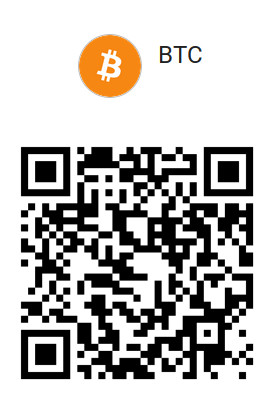
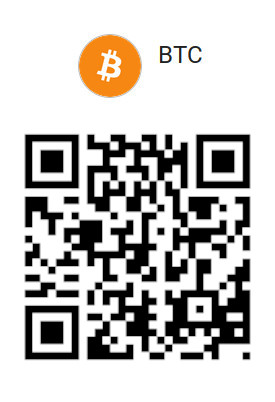
newsflash and updates

diff --git a/_site/bio/index.html b/_site/bio/index.html
@@ -79,12 +79,12 @@
 <a><strong>Co-creating a beautiful future! </strong></a>
 <br />
 <br />
-<a>"Everything I create is devoted to inspiring humanities culture, arts and technology to  move in sync with nature toward an abundant and healthy future for all species and eco-systems. The future is always growing one way or another... Be intelligent, put the natural world first, create a harmonious society and technologies. May all else rest in peace."</a>
+<a>"Everything I create is devoted to inspiring humanities culture, arts and technology to move in sync with nature toward an abundant and healthy future for all species and eco-systems. My current focus is to raise awareness about the importance of Bio-Diversity and how it is essential for humans and all life on earth to continue. The future is always growing one way or another... Be intelligent, put the natural world first, create a harmonious and freedom loving society and technologies. May all else rest in peace."</a>
 <br />
 <br />
 <a><strong>About the music:</strong></a>
 <br />
-<a>From a very early age DaoWiz started singing and writing poetry as well as exploring various visual art mediums. As his expression grew towards the late 90's he branched out into exploring technology with the rise of the internet, digital forms of sound creation and many other avenues related to these new technologies. After some experimentation in bands and collaborations, he then returned to a purely acoustic sound and began performing solo in 2011. Almost ten years later he is still producing this solo act with mostly original songs and has slowly begun integrating some more technology into his style, bringing the analogue world of nature together with humanities digital age to create a message of imagining for a world that could be..
+<a>From a very early age Daowiz started singing and writing poetry as well as exploring various visual art mediums. As his expression grew towards the late 90's he branched out into exploring technology with the rise of the internet, digital forms of sound creation and many other avenues related to these new technologies. After some experimentation in bands and collaborations, he then returned to a purely acoustic sound and began performing solo in 2011. Almost ten years later he is still producing this solo act with mostly original songs and has slowly begun integrating some more technology into his style, bringing the analogue world of nature together with humanities digital age to create a message of imagining for a world that could be..
 <br />
 <br />
 "As the world sheds it’s seasonal skins, I find beauty and meaning in the relics left by man and nature’s progression across the earth. Piecing them together I weave stories and meanings that tend toward restorative narratives using poetic symbolism. My experience includes traditional Art forms in a variety of mediums, Music forms, instruments and many technologies such as mechanics, electronics and computing."</a>

diff --git a/_site/index.html b/_site/index.html
@@ -58,20 +58,27 @@
 <body>
   <div class="my_header">
     <p>
-      <img src="/assets/img/daowiz_white.png" alt="DaoWiz" width="300px" height="140px" />
+      <img src="/assets/img/graphics/badge_white.png" alt="DaoWiz" width="300px" height="300px" />
     </p>
   </div>
+
   <br />
-  <div class="sub_header">
+    <div class="sub_header">
       <p>.</p>
      <!--<p>(formerly online ivan)</p>-->
-      <p style="margin-top:-5vw;">original digital nomad artist</p>
-      <p style="margin-top:-5vw; margin-bottom:0vw;">. crafting waves since 94 .</p>
-
-  </div>
+      <p style="margin-top:-5vw;">diversify life</p>
+    </div>
   <br />
   <br />
 
+<div class="alert_box">
+  <strong style="color: #eb4034;">NEWSFLASH!!</strong><br /><hr />
+  Exciting news! In June 2022 i'll be releasing a mobile and desktop app with a whole lot of new music and imagery. A full multimedia experience that will continually grow every month!!
+  <br />
+  Please support the project by making a contribution <a href="/anons" style="text-decoration:underline;">here</a>
+</div>
+<br />
+<br />
 
 
   <div id="wrapper">
@@ -83,7 +90,7 @@
     <div class="sub_header" style="margin-bottom: 0px; margin-top:-20px;">
     <p>. creative flow .
       <br />
-      . history: .
+      . history.. .
 
     </p>
     </div>

diff --git a/_site/anons/index.html b/_site/anons/index.html
@@ -53,20 +53,26 @@
         <div class="page">
   <h1 class="page-title">Once off</h1>
   <div class="page">
-  <strong>To make a donation please choose one of the ways to give below.</strong>
-<br />
-<p>NEWSFLASH - WE're funding the new album and another exciting project for 2022. Check it out!<p>
-Im fundraing to .. WHY
+
+<div class="alert_box">
+  <strong style="color: #eb4034;">NEWSFLASH!!</strong><br /><hr />
+  Exciting news! In June 2022 i'll be releasing a mobile and desktop app with a whole lot of new music and imagery. A full multimedia experience that will continually grow every month!!
+</div>
+
+<div>
 with this and that WHAT
 	Sentient Culture
 	Re-exploring my life's work (art, music, body/bio conciousness, technology frontline, building,
 	primal to high tech
-
 So whats it all about?
 WHHHY
 How to get involved
+<br />
+</div>
 
-Update schedule etc.
+<br />
+<strong>To make a donation please choose one of the ways to contribute below.</strong>
+<br />
 
 <table style="border-collapse: collapse;" border="0">
 <tbody>
@@ -150,8 +156,7 @@ Update schedule etc.
 
 <br />
 <a href="/contact">If you don't see an option you'd like here, please click here to let me know about it..</a>
-&lt;/div&gt;
-</p></p></div>
+</div>
 
 </div>
 

diff --git a/_includes/home_may22.html b/_includes/home_may22.html
@@ -9,24 +9,17 @@
       <img src="/assets/img/graphics/badge_white.png" alt="DaoWiz" width="300px" height="300px">
     </p>
   </div>
-
   <br>
-    <div class="sub_header">
+  <div class="sub_header">
       <p>.</p>
      <!--<p>(formerly online ivan)</p>-->
-      <p style="margin-top:-5vw;">diversify life</p>
-    </div>
+      <p style="margin-top:-5vw;">original digital nomad artist</p>
+
+
+  </div>
   <br>
   <br>
 
-<div class="alert_box">
-  <strong style="color: #eb4034;">NEWSFLASH!!</strong><br><hr>
-  Exciting news! In June 2022 i'll be releasing a mobile and desktop app with a whole lot of new music and imagery. A full multimedia experience that will continually grow every month!!
-  <br>
-  Please support the project by making a contribution <a href="/anons" style="text-decoration:underline;">here</a>
-</div>
-<br>
-<br>
 
 
   <div id="wrapper">

diff --git a/_site/contact/index.html b/_site/contact/index.html
@@ -66,7 +66,7 @@
         <a href="https://t.me/IvanDaowiz"><img src="../assets/img/telegram.png" height="60" width="60" /></a>
         <a href="intent://+27604024843#Intent;scheme=smsto;package=org.thoughtcrime.securesms;action=android.intent.action.SENDTO;end"><img src="../assets/img/signal.png" height="60" width="60" /></a>
         <a href="mailto:infinite22@gmail.com"><img src="../assets/img/mail.png" height="60" width="60" /></a>
-        <a style="margin-top:-50px;margin-left:3px;" href="tel:+27-060-402-4843" class="btn-floating green accent-4  btn-large"><i class="large material-icons">call</i></a>
+        <a style="margin-top:-50px;margin-left:3px;" href="tel:+27-078-609-1978" class="btn-floating green accent-4  btn-large"><i class="large material-icons">call</i></a>
     </p>
 </div>
 <div>

diff --git a/_site/bitcoin/index.html b/_site/bitcoin/index.html
@@ -33,7 +33,8 @@
   <h1 class="page-title">Bitcoin</h1>
   <p>Scan the QR code on another device or copy my BTC Address to send in your bitcoin mobile wallet.
 <br />
-1CBVCGgzYDKzybeJpoiDxbhaH8qYUNnydZ
+14kgjqxL7SaBt9fpAYit39mcnG265KwpR2
+<br />
 <br />
 <img src="../assets/img/btc.jpg" width="300px" />
 <br />

diff --git a/_site/assets/css/main.css b/_site/assets/css/main.css
@@ -23,6 +23,7 @@ body{
  padding-right:10px;
 
 
+
 }
 .logo{
   width:auto;
@@ -58,6 +59,11 @@ body{
   margin-top:-15vw;
 
 
+}
+.alert_box{
+  border: 1px solid;
+  border-radius: 35px;
+  padding:3vw;
 }
 .page_quotes {
   font-size: 2vw;

diff --git a/assets/css/main.css b/assets/css/main.css
@@ -23,6 +23,7 @@ body{
  padding-right:10px;
 
 
+
 }
 .logo{
   width:auto;
@@ -58,6 +59,11 @@ body{
   margin-top:-15vw;
 
 
+}
+.alert_box{
+  border: 1px solid;
+  border-radius: 35px;
+  padding:3vw;
 }
 .page_quotes {
   font-size: 2vw;

diff --git a/bio.md b/bio.md
@@ -8,12 +8,12 @@ permalink: /bio/
 <a><strong>Co-creating a beautiful future! </strong></a>
 <br>
 <br>
-<a>"Everything I create is devoted to inspiring humanities culture, arts and technology to  move in sync with nature toward an abundant and healthy future for all species and eco-systems. The future is always growing one way or another... Be intelligent, put the natural world first, create a harmonious society and technologies. May all else rest in peace."</a>
+<a>"Everything I create is devoted to inspiring humanities culture, arts and technology to move in sync with nature toward an abundant and healthy future for all species and eco-systems. My current focus is to raise awareness about the importance of Bio-Diversity and how it is essential for humans and all life on earth to continue. The future is always growing one way or another... Be intelligent, put the natural world first, create a harmonious and freedom loving society and technologies. May all else rest in peace."</a>
 <br>
 <br>
 <a><strong>About the music:</strong></a>
 <br>
-<a>From a very early age DaoWiz started singing and writing poetry as well as exploring various visual art mediums. As his expression grew towards the late 90's he branched out into exploring technology with the rise of the internet, digital forms of sound creation and many other avenues related to these new technologies. After some experimentation in bands and collaborations, he then returned to a purely acoustic sound and began performing solo in 2011. Almost ten years later he is still producing this solo act with mostly original songs and has slowly begun integrating some more technology into his style, bringing the analogue world of nature together with humanities digital age to create a message of imagining for a world that could be..
+<a>From a very early age Daowiz started singing and writing poetry as well as exploring various visual art mediums. As his expression grew towards the late 90's he branched out into exploring technology with the rise of the internet, digital forms of sound creation and many other avenues related to these new technologies. After some experimentation in bands and collaborations, he then returned to a purely acoustic sound and began performing solo in 2011. Almost ten years later he is still producing this solo act with mostly original songs and has slowly begun integrating some more technology into his style, bringing the analogue world of nature together with humanities digital age to create a message of imagining for a world that could be..
 <br>
 <br>
 "As the world sheds it’s seasonal skins, I find beauty and meaning in the relics left by man and nature’s progression across the earth. Piecing them together I weave stories and meanings that tend toward restorative narratives using poetic symbolism. My experience includes traditional Art forms in a variety of mediums, Music forms, instruments and many technologies such as mechanics, electronics and computing."</a>

diff --git a/payments_anons.md b/payments_anons.md
@@ -4,20 +4,26 @@ title: Once off
 permalink: /anons/
 ---
 <div class="page">
-  <strong>To make a donation please choose one of the ways to give below.</strong>
-<br>
-<p>NEWSFLASH - WE're funding the new album and another exciting project for 2022. Check it out!<p>
-Im fundraing to .. WHY
+
+<div class="alert_box">
+  <strong style="color: #eb4034;">NEWSFLASH!!</strong><br><hr>
+  Exciting news! In June 2022 i'll be releasing a mobile and desktop app with a whole lot of new music and imagery. A full multimedia experience that will continually grow every month!!
+</div>
+
+<div>
 with this and that WHAT
 	Sentient Culture
 	Re-exploring my life's work (art, music, body/bio conciousness, technology frontline, building,
 	primal to high tech
-
 So whats it all about?
 WHHHY
 How to get involved
+<br>
+</div>
 
-Update schedule etc.
+<br>
+<strong>To make a donation please choose one of the ways to contribute below.</strong>
+<br>
 
 <table style="border-collapse: collapse;" border="0">
 <tbody>

diff --git a/contact.md b/contact.md
@@ -18,7 +18,7 @@ permalink: /contact/
         <a href="https://t.me/IvanDaowiz"><img src="../assets/img/telegram.png" height="60" width="60"></a>
         <a href="intent://+27604024843#Intent;scheme=smsto;package=org.thoughtcrime.securesms;action=android.intent.action.SENDTO;end"><img src="../assets/img/signal.png" height="60" width="60"></a>
         <a href="mailto:infinite22@gmail.com"><img src="../assets/img/mail.png" height="60" width="60"></a>
-        <a style="margin-top:-50px;margin-left:3px;" href="tel:+27-060-402-4843" class="btn-floating green accent-4  btn-large"><i class="large material-icons">call</i></a>
+        <a style="margin-top:-50px;margin-left:3px;" href="tel:+27-078-609-1978" class="btn-floating green accent-4  btn-large"><i class="large material-icons">call</i></a>
     </p>
 </div>
 <div>

diff --git a/paypages/bitcoin.md b/paypages/bitcoin.md
@@ -5,7 +5,8 @@ permalink: /bitcoin/
 ---
 Scan the QR code on another device or copy my BTC Address to send in your bitcoin mobile wallet.
 <br>
-1CBVCGgzYDKzybeJpoiDxbhaH8qYUNnydZ
+14kgjqxL7SaBt9fpAYit39mcnG265KwpR2
+<br>
 <br>
 <img src="../assets/img/btc.jpg" width="300px">
 <br>
